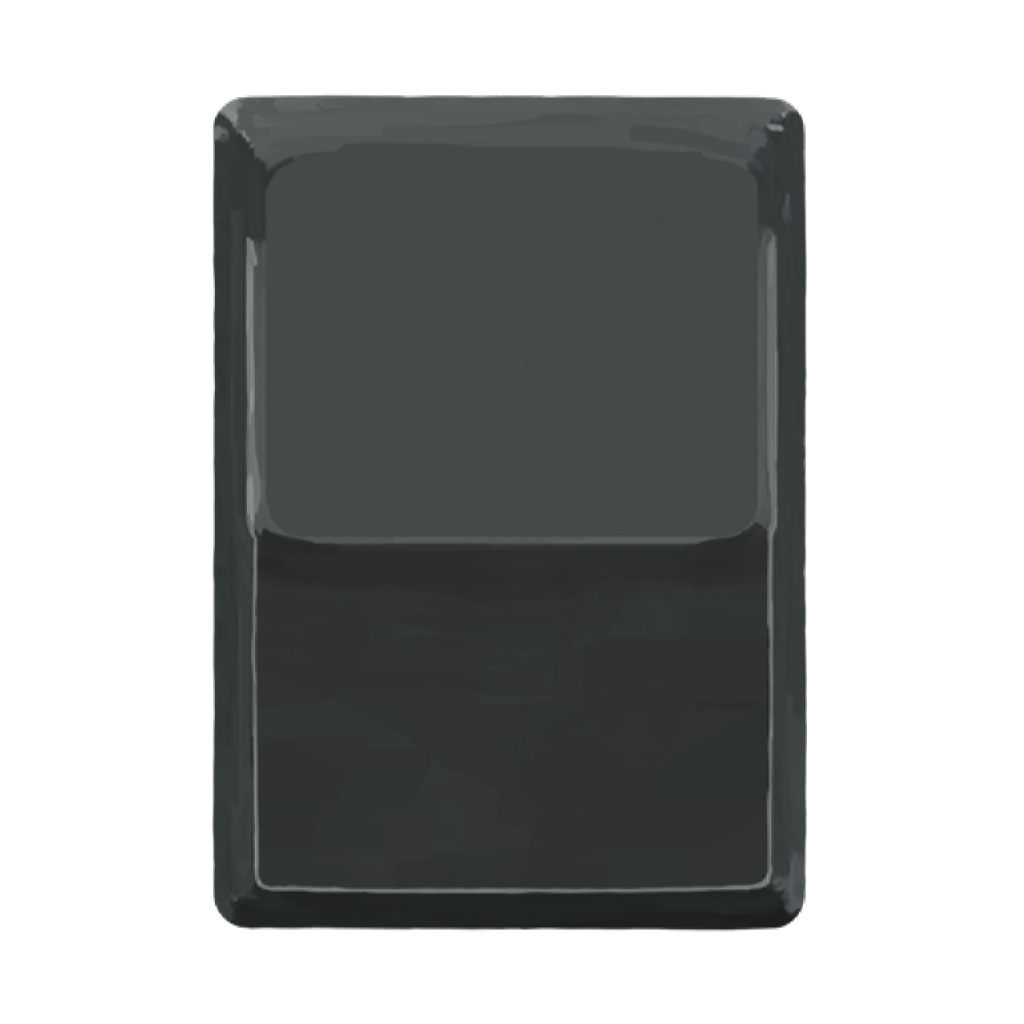
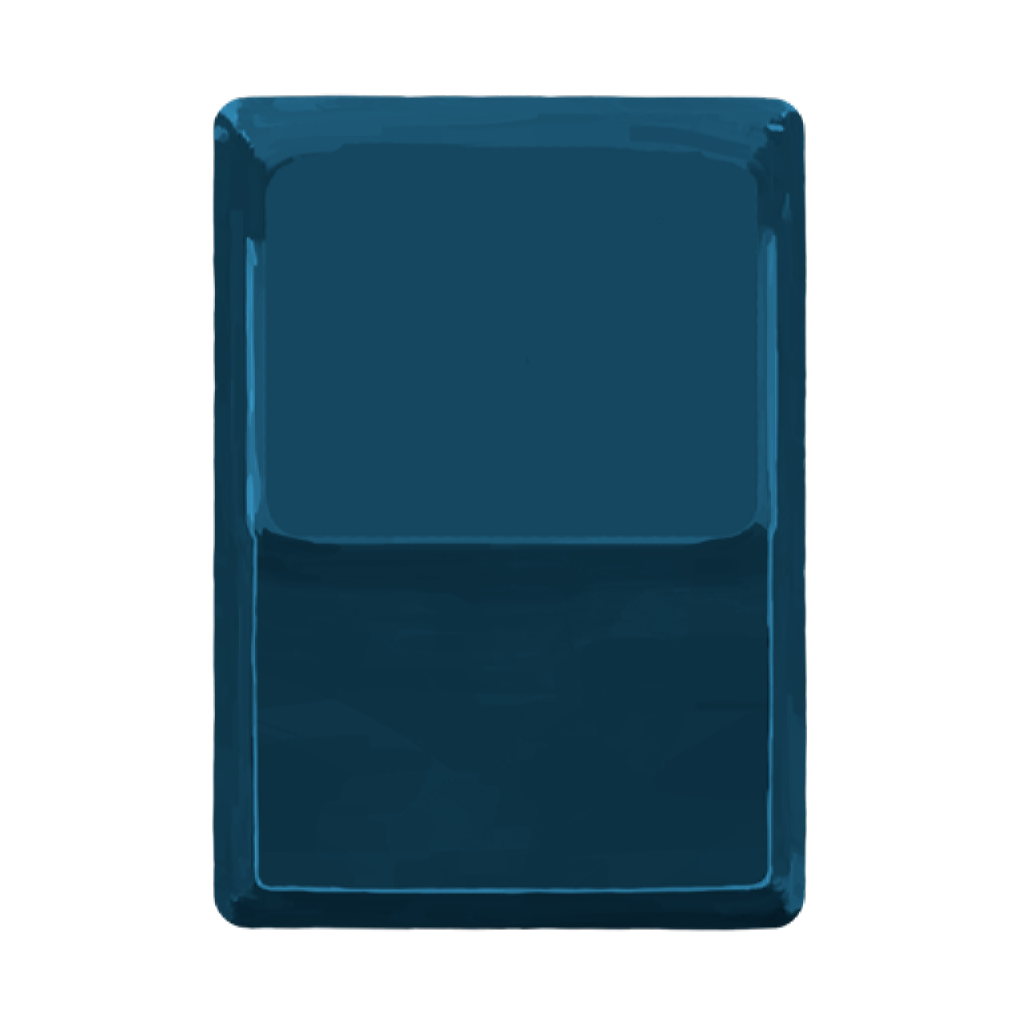
Proper card BG and trail colors added

diff --git a/src/main/java/stormcrowmod/character/PilotCharacter.java b/src/main/java/stormcrowmod/character/PilotCharacter.java
@@ -18,6 +18,7 @@ import com.megacrit.cardcrawl.helpers.CardLibrary;
 import com.megacrit.cardcrawl.helpers.FontHelper;
 import com.megacrit.cardcrawl.helpers.ScreenShake;
 import com.megacrit.cardcrawl.screens.CharSelectInfo;
+import stormcrowmod.StormcrowMod;
 import stormcrowmod.cards.attack.PulseStrike;
 import stormcrowmod.cards.attack.Strike;
 import stormcrowmod.cards.skill.Defend;
@@ -48,9 +49,9 @@ public class PilotCharacter extends CustomPlayer {
         //Library color is basically the same as card color, but you need both because that's how the game was made.
         @SpireEnum
         public static PlayerClass STORMCROW_PILOT;
-        @SpireEnum(name = "CHARACTER_NAVY_COLOR") // These two MUST match. Change it to something unique for your character.
+        @SpireEnum(name = "PILOT_CERULEAN_COLOR") // These two MUST match. Change it to something unique for your character.
         public static AbstractCard.CardColor CARD_COLOR;
-        @SpireEnum(name = "CHARACTER_NAVY_COLOR") @SuppressWarnings("unused")
+        @SpireEnum(name = "PILOT_CERULEAN_COLOR") @SuppressWarnings("unused")
         public static CardLibrary.LibraryType LIBRARY_COLOR;
 
         //Character select images
@@ -69,7 +70,7 @@ public class PilotCharacter extends CustomPlayer {
         private static final String SMALL_ORB = characterPath("cardback/small_orb.png");
 
         //This is used to color *some* images, but NOT the actual cards. For that, edit the images in the cardback folder!
-        private static final Color cardColor = new Color(6f/255f, 49f/255f, 90f/255f, 1f);
+        private static final Color cardColor = StormcrowMod.PILOT_CERULEAN;
 
         //Methods that will be used in the main mod file
         public static void registerColor() {
@@ -187,9 +188,9 @@ public class PilotCharacter extends CustomPlayer {
         };
     }
 
-    private final Color cardRenderColor = Color.NAVY.cpy(); //Used for some vfx on moving cards (sometimes) (maybe)
-    private final Color cardTrailColor = Color.NAVY.cpy(); //Used for card trail vfx during gameplay.
-    private final Color slashAttackColor = Color.BLUE.cpy(); //Used for a screen tint effect when you attack the heart.
+    private final Color cardRenderColor = StormcrowMod.PILOT_CERULEAN; //Used for some vfx on moving cards (sometimes) (maybe)
+    private final Color cardTrailColor = StormcrowMod.PILOT_CERULEAN; //Used for card trail vfx during gameplay.
+    private final Color slashAttackColor = StormcrowMod.PILOT_CERULEAN; //Used for a screen tint effect when you attack the heart.
     @Override
     public Color getCardRenderColor() {
         return cardRenderColor;

diff --git a/src/main/java/stormcrowmod/StormcrowMod.java b/src/main/java/stormcrowmod/StormcrowMod.java
@@ -3,6 +3,7 @@ package stormcrowmod;
 import basemod.AutoAdd;
 import basemod.BaseMod;
 import basemod.interfaces.*;
+import com.badlogic.gdx.graphics.Color;
 import com.megacrit.cardcrawl.unlock.UnlockTracker;
 import stormcrowmod.cards.BaseCard;
 import stormcrowmod.character.PilotCharacter;
@@ -43,6 +44,9 @@ public class StormcrowMod implements
     static { loadModInfo(); }
     private static final String resourcesFolder = checkResourcesPath();
     public static final Logger logger = LogManager.getLogger(modID); //Used to output to the console.
+
+    public static final Color PILOT_CERULEAN = new Color(6f/255f, 49f/255f, 90f/255f, 1f);
+
 
     //This is used to prefix the IDs of various objects like cards and relics,
     //to avoid conflicts between different mods using the same name for things.
